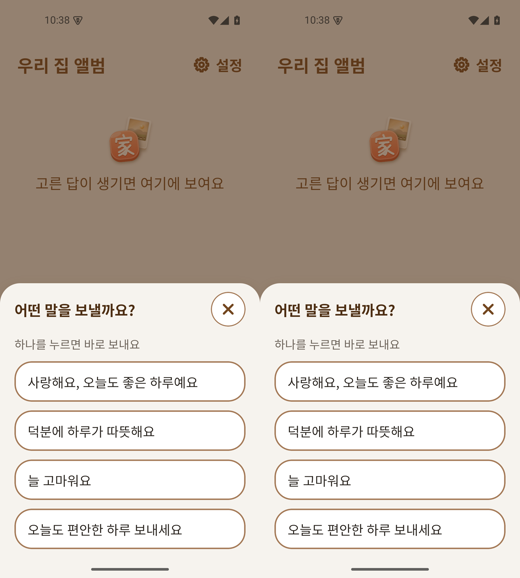
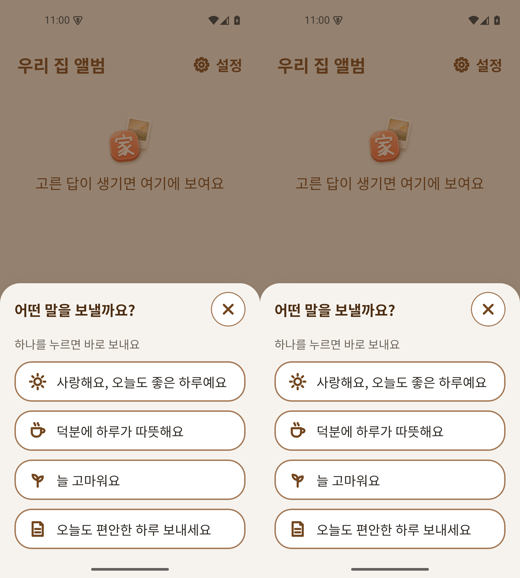
feat(cheer): 응원 시트 사물 아이콘 4종(디자인 #92 자산 사본: 해·찻잔·새싹·쪽지)

diff --git a/app/src/ui/assets/icons.tsx b/app/src/ui/assets/icons.tsx
@@ -40,6 +40,30 @@ const XML = {
   'icon-speaker': `<svg xmlns="http://www.w3.org/2000/svg" viewBox="0 0 24 24" width="24" height="24" fill="none" stroke="currentColor" stroke-width="2.5" stroke-linecap="round" stroke-linejoin="round"><path d="M6 9.5h3l4-3.5v12l-4-3.5H6z"/><path d="M16.18 8.82A4.5 4.5 0 0 1 16.18 15.18"/></svg>`,
   // 첫 화면 띠 '가족이 보낸 번호가 있어요'(시안 FS_link)
   'icon-mail': `<svg xmlns="http://www.w3.org/2000/svg" viewBox="0 0 24 24" width="24" height="24" fill="none" stroke="currentColor" stroke-width="2.5" stroke-linecap="round" stroke-linejoin="round"><rect x="3" y="5.5" width="18" height="13" rx="2"/><path d="M3.5 6.5l8.5 6.5 8.5-6.5"/></svg>`,
+  // 응원 시트 사물 아이콘(디자인 #92, 분류 b 아이콘+글자)
+  'icon-sun': `<svg xmlns="http://www.w3.org/2000/svg" viewBox="0 0 24 24" width="24" height="24" fill="none" stroke="currentColor" stroke-width="2.5" stroke-linecap="round" stroke-linejoin="round" role="img" aria-label="해">
+  <title>해</title>
+  <circle cx="12" cy="12" r="4"/>
+  <path d="M12 3v2M12 19v2M3 12h2M19 12h2M5.6 5.6l1.4 1.4M17 17l1.4 1.4M5.6 18.4l1.4-1.4M17 7l1.4-1.4"/>
+</svg>`,
+  'icon-teacup': `<svg xmlns="http://www.w3.org/2000/svg" viewBox="0 0 24 24" width="24" height="24" fill="none" stroke="currentColor" stroke-width="2.5" stroke-linecap="round" stroke-linejoin="round" role="img" aria-label="찻잔">
+  <title>찻잔</title>
+  <path d="M5 9h11v5a5 5 0 0 1-5 5h-1a5 5 0 0 1-5-5z"/>
+  <path d="M16 10h2a2 2 0 0 1 0 4h-2"/>
+  <path d="M8 3c0 1.2 1.2 1.2 1.2 2.6M12 3c0 1.2 1.2 1.2 1.2 2.6"/>
+</svg>`,
+  'icon-sprout': `<svg xmlns="http://www.w3.org/2000/svg" viewBox="0 0 24 24" width="24" height="24" fill="none" stroke="currentColor" stroke-width="2.5" stroke-linecap="round" stroke-linejoin="round" role="img" aria-label="새싹">
+  <title>새싹</title>
+  <path d="M12 20v-8"/>
+  <path d="M12 12c-4 0-6-3-6-6 4 0 6 2 6 6z"/>
+  <path d="M12 14c4 0 6-3 6-6-4 0-6 2-6 6z"/>
+</svg>`,
+  'icon-note': `<svg xmlns="http://www.w3.org/2000/svg" viewBox="0 0 24 24" width="24" height="24" fill="none" stroke="currentColor" stroke-width="2.5" stroke-linecap="round" stroke-linejoin="round" role="img" aria-label="쪽지">
+  <title>쪽지</title>
+  <path d="M6 4h9l3 3v13H6z"/>
+  <path d="M15 4v3h3"/>
+  <path d="M9 12h6M9 16h6"/>
+</svg>`,
 } as const;
 export type IconName = keyof typeof XML;
 

diff --git a/app/src/features/home/ChildHome.tsx b/app/src/features/home/ChildHome.tsx
@@ -9,6 +9,7 @@ import {Screen} from '../../ui/Screen';
 import {Text20} from '../../ui/Text20';
 import {BigButton} from '../../ui/BigButton';
 import {AudienceProvider, Choice, Sheet} from '../../ui/ds';
+import type {IconName} from '../../ui/assets/icons';
 import {useToast} from '../../ui/Toast';
 import {useSendCheer} from './useSendCheer';
 import {findTitleDup} from './titleDup';
@@ -23,6 +24,9 @@ import {BrandSymbol} from '../../ui/assets/brandSymbol';
 import {childErrorMessage} from '../../shared/childError';
 import {daysSinceYmd} from '../../lib/childFormat';
 import {track, trackOnce} from '../track';
+
+/** 응원 문장별 사물 아이콘(시안 C4_cheer_sheet_ds4: 해·찻잔·새싹·쪽지, 하트·이모지 금지 Q5) */
+const CHEER_ICON = {love_you: 'icon-sun', warm_day: 'icon-teacup', thanks_always: 'icon-sprout', peaceful_day: 'icon-note'} as const satisfies Record<(typeof CHILD_CHEER_KEYS)[number], IconName>;
 
 const c = copy.child;
 const h = c.home;
@@ -130,7 +134,7 @@ export function ChildHome() {
           <Choice
             mode="action"
             testID="cheer"
-            items={CHILD_CHEER_KEYS.map(k => ({key: k, label: copy.cheers[k]}))}
+            items={CHILD_CHEER_KEYS.map(k => ({key: k, label: copy.cheers[k], icon: CHEER_ICON[k]}))}
             onSelect={k => {
               setSheet(false);
               send(k as (typeof CHILD_CHEER_KEYS)[number], reachable);

diff --git a/app/__tests__/cheerSheetV4.test.tsx b/app/__tests__/cheerSheetV4.test.tsx
@@ -43,6 +43,10 @@ test('선택지: 확정 문구 4개 1열 Choice(action, 버튼), 글자는 bodyL
   const list = within(screen.getByTestId('cheer'));
   const items = list.getAllByRole('button');
   expect(items.map(b => b.props.accessibilityLabel)).toEqual(['사랑해요, 오늘도 좋은 하루예요', '덕분에 하루가 따뜻해요', '늘 고마워요', '오늘도 편안한 하루 보내세요']);
+  // 사물 아이콘 4종(해·찻잔·새싹·쪽지, 디자인 #92) — 하트·이모지 없음(Q5), 장식이라 읽지 않음
+  ['icon-sun', 'icon-teacup', 'icon-sprout', 'icon-note'].forEach((name, i) => {
+    expect(within(items[i]).getByTestId(name, {includeHiddenElements: true})).toBeTruthy();
+  });
   const label = within(items[0]).UNSAFE_getByType(RNText);
   expect(label.props.maxFontSizeMultiplier).toBe(roleText('bodyLg', 'child').maxFontSizeMultiplier);
   expect(label.props.maxFontSizeMultiplier).toBeGreaterThan(1.5);
